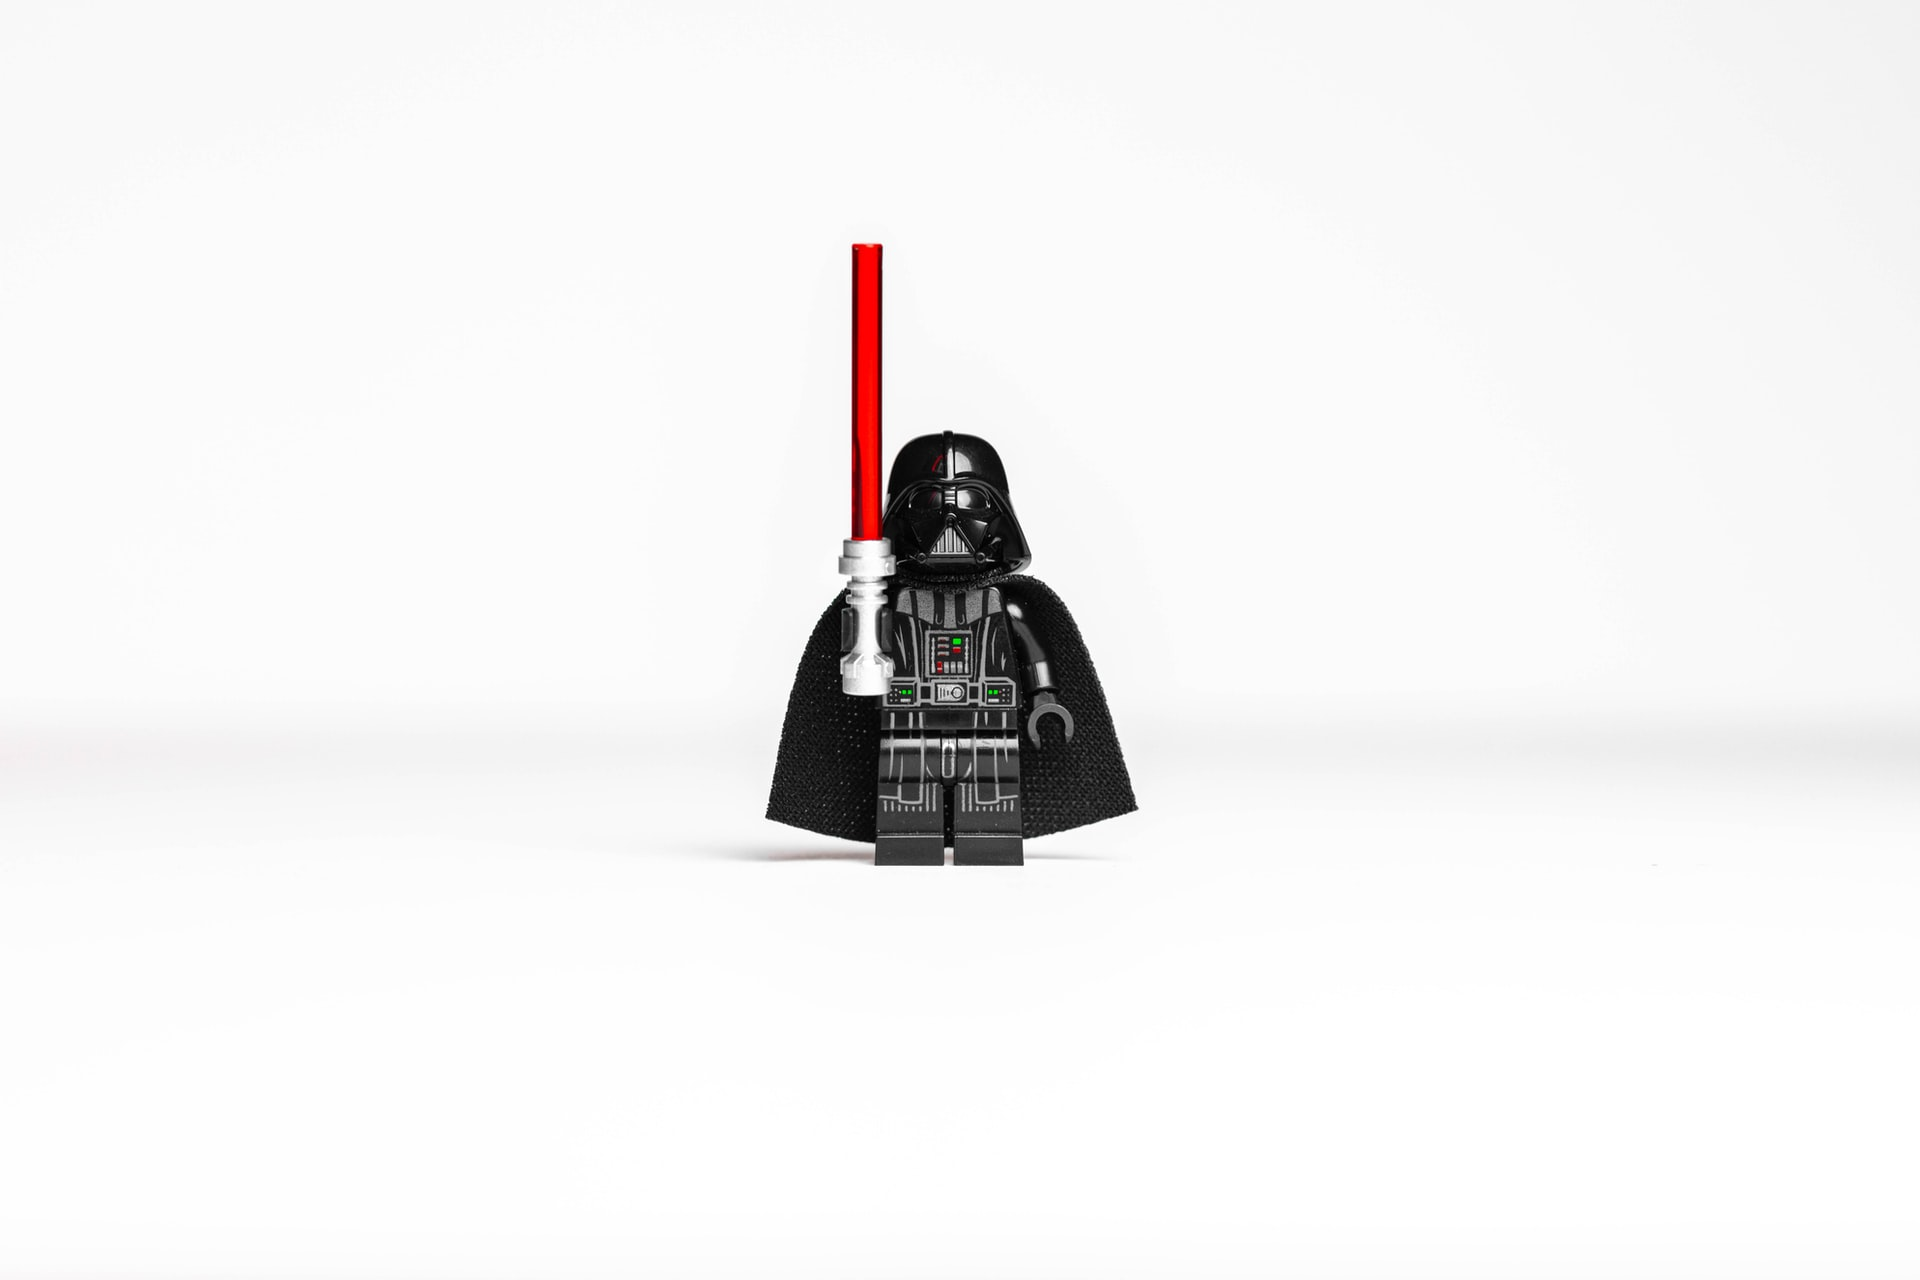
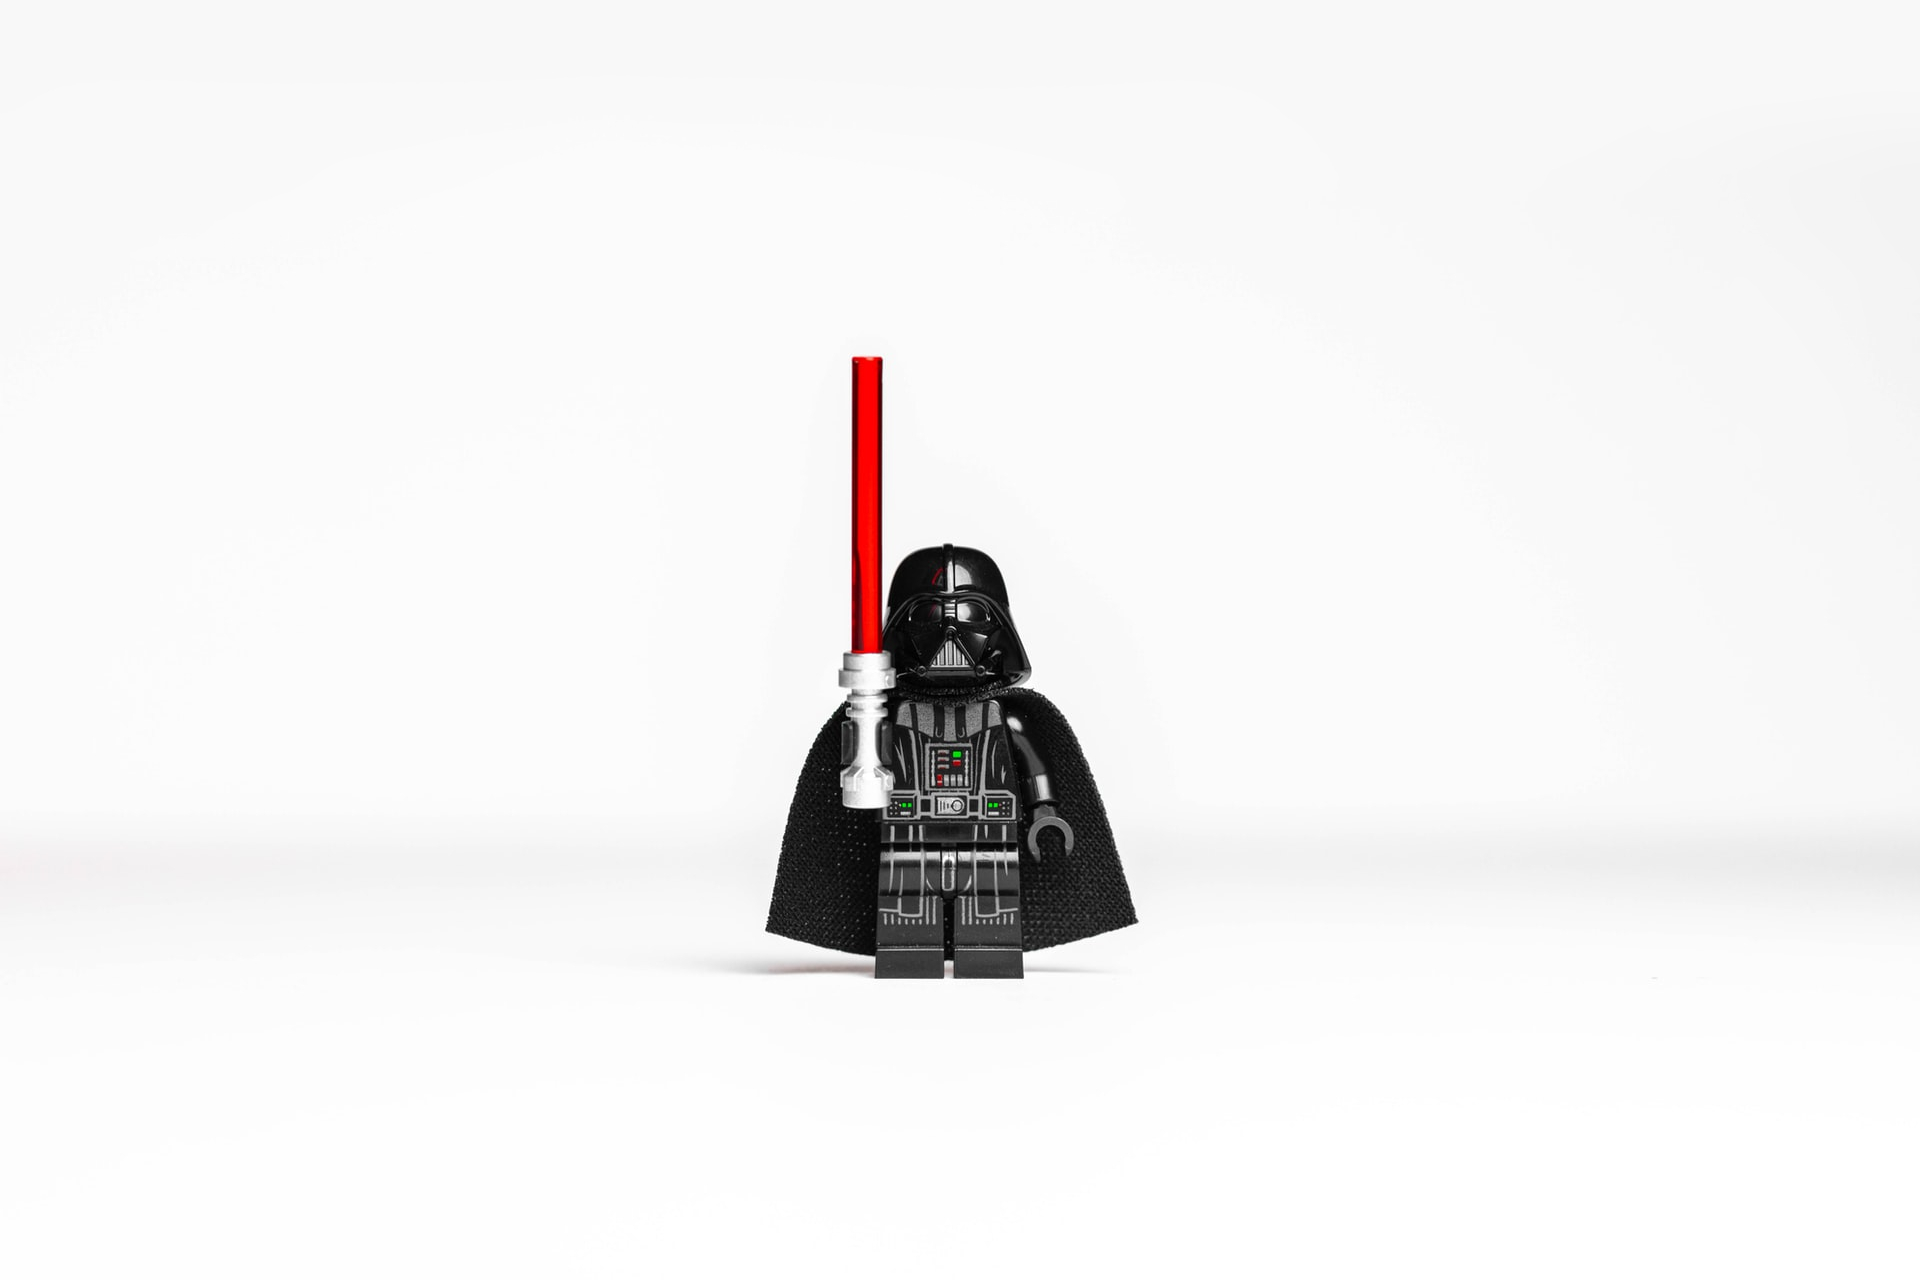
ajust img-size

Changed region(s): [[0.375, 0.3125, 0.5938, 0.7812], [0.4375, 0.1875, 0.4688, 0.2812]]

diff --git a/src/App.css b/src/App.css
@@ -49,7 +49,7 @@
 .homeImage{
 	margin: 0;
 	padding-left: 0;
-	height: 87vh;
+	height: 35em;
 	background-image: url(./assets/bb.jpg);
 	background-position: center center;
 	background-repeat: no-repeat;
@@ -60,7 +60,7 @@
 .bgImage{
 	margin: 0;
 	padding-left: 0;
-	height: 87vh;
+	height: 35em;
 	background-image: url(./assets/notFound.jpg);
 	background-position: center center;
 	background-repeat: no-repeat;
